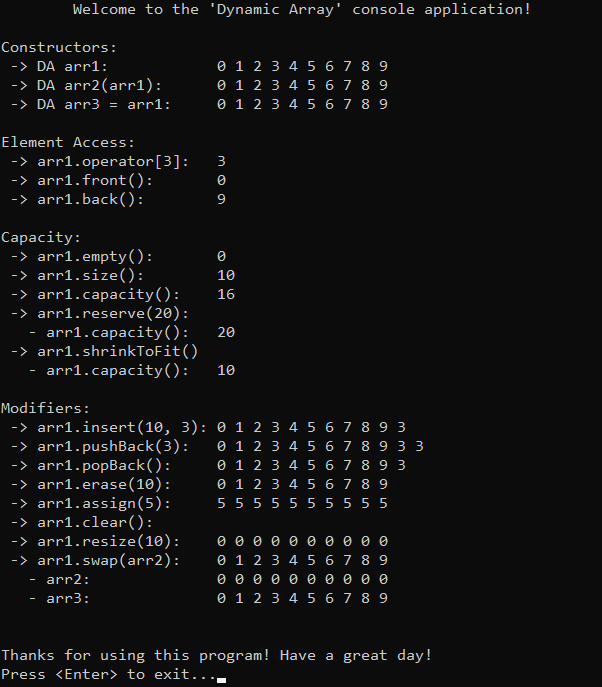
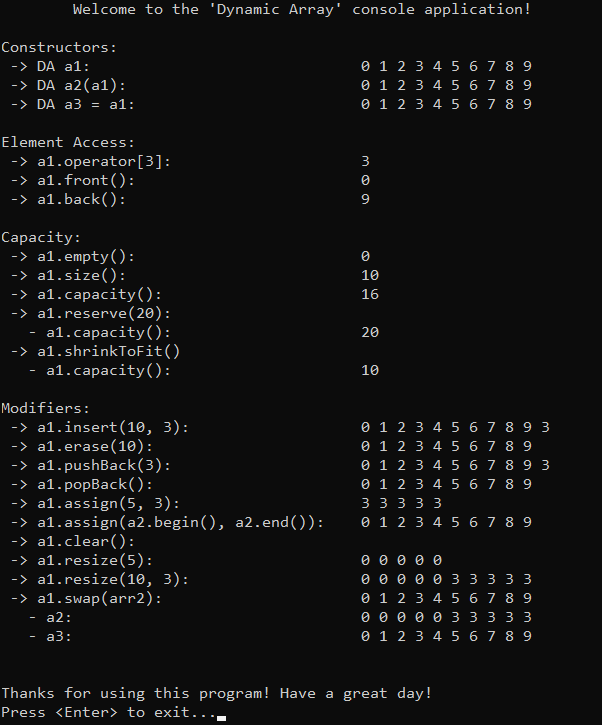
Upd 'Arrays': fix resize, fill, assign functions.

diff --git a/DataStructures/Array/DynamicArray/Source/Main.cpp b/DataStructures/Array/DynamicArray/Source/Main.cpp
@@ -21,68 +21,79 @@ int main() {
 
 	// Constructors
 	std::cout << "Constructors:\n";
-	std::cout << " -> DA arr1:\t\t";
-	DA arr1;
-	for (int i = 0; i < 10; ++i) { arr1.pushBack(i); } // 5 allocations
-	printArray(arr1);
-	std::cout << " -> DA arr2(arr1):\t";
-	DA arr2(arr1);
-	printArray(arr2);
-	std::cout << " -> DA arr3 = arr1:\t";
-	DA arr3 = arr1;
-	printArray(arr3);
+	std::cout << " -> DA a1:\t\t\t\t";
+	DA a1;
+	for (int i = 0; i < 10; ++i) { a1.pushBack(i); } // 5 allocations
+	printArray(a1);
+	std::cout << " -> DA a2(a1):\t\t\t\t";
+	DA a2(a1);
+	printArray(a2);
+	std::cout << " -> DA a3 = a1:\t\t\t\t";
+	DA a3 = a1;
+	printArray(a3);
 	std::cout << std::endl;
+
+	// Helper Iterators
+	DA::iterator it = a1.begin();
+	DA::iterator last = it;
+	for (; it != a1.end(); ++it) { last = it; }
 
 	// Element Access
 	std::cout << "Element Access:\n";
-	std::cout << " -> arr1.operator[3]:\t" << arr1[3] << std::endl;
-	std::cout << " -> arr1.front():\t" << arr1.front() << std::endl;
-	std::cout << " -> arr1.back(): \t" << arr1.back() << std::endl;
+	std::cout << " -> a1.operator[3]:\t\t\t" << a1[3] << std::endl;
+	std::cout << " -> a1.front():\t\t\t\t" << a1.front() << std::endl;
+	std::cout << " -> a1.back(): \t\t\t\t" << a1.back() << std::endl;
 	std::cout << std::endl;
 
 	// Capacity
 	std::cout << "Capacity:\n";
-	std::cout << " -> arr1.empty():\t" << arr1.empty() << std::endl;
-	std::cout << " -> arr1.size(): \t" << arr1.size() << std::endl;
-	std::cout << " -> arr1.capacity(): \t" << arr1.capacity() << std::endl;
-	std::cout << " -> arr1.reserve(20): \t" << std::endl;
-	arr1.reserve(20);
-	std::cout << "   - arr1.capacity(): \t" << arr1.capacity() << std::endl;
-	std::cout << " -> arr1.shrinkToFit() \t" << std::endl;
-	arr1.shrinkToFit();
-	std::cout << "   - arr1.capacity(): \t" << arr1.capacity() << std::endl;
+	std::cout << " -> a1.empty():\t\t\t\t" << a1.empty() << std::endl;
+	std::cout << " -> a1.size(): \t\t\t\t" << a1.size() << std::endl;
+	std::cout << " -> a1.capacity(): \t\t\t" << a1.capacity() << std::endl;
+	std::cout << " -> a1.reserve(20): \t\t\t\t" << std::endl;
+	a1.reserve(20);
+	std::cout << "   - a1.capacity(): \t\t\t" << a1.capacity() << std::endl;
+	std::cout << " -> a1.shrinkToFit() \t\t\t\t" << std::endl;
+	a1.shrinkToFit();
+	std::cout << "   - a1.capacity(): \t\t\t" << a1.capacity() << std::endl;
 	std::cout << std::endl;
 
 	// Modifiers
 	std::cout << "Modifiers:\n";
-	std::cout << " -> arr1.insert(10, 3): ";
-	arr1.insert(10, 3);
-	printArray(arr1);
-	std::cout << " -> arr1.pushBack(3): \t";
-	arr1.pushBack(3);
-	printArray(arr1);
-	std::cout << " -> arr1.popBack(): \t";
-	arr1.popBack();
-	printArray(arr1);
-	std::cout << " -> arr1.erase(10): \t";
-	arr1.erase(10);
-	printArray(arr1);
-	std::cout << " -> arr1.assign(5): \t";
-	arr1.assign(5);
-	printArray(arr1);
-	std::cout << " -> arr1.clear(): \t";
-	arr1.clear();
-	printArray(arr1);
-	std::cout << " -> arr1.resize(10): \t";
-	arr1.resize(10);
-	printArray(arr1);
-	std::cout << " -> arr1.swap(arr2): \t";
-	arr1.swap(arr2);
-	printArray(arr1);
-	std::cout << "   - arr2:\t\t";
-	printArray(arr2);
-	std::cout << "   - arr3:\t\t";
-	printArray(arr3);
+	std::cout << " -> a1.insert(10, 3): \t\t\t";
+	a1.insert(10, 3);
+	printArray(a1);
+	std::cout << " -> a1.erase(10): \t\t\t";
+	a1.erase(10);
+	printArray(a1);
+	std::cout << " -> a1.pushBack(3): \t\t\t";
+	a1.pushBack(3);
+	printArray(a1);
+	std::cout << " -> a1.popBack(): \t\t\t";
+	a1.popBack();
+	printArray(a1);
+	std::cout << " -> a1.assign(5, 3): \t\t\t";
+	a1.assign(5, 3);
+	printArray(a1);
+	std::cout << " -> a1.assign(a2.begin(), a2.end()):    ";
+	a1.assign(a2.begin(), a2.end());
+	printArray(a1);
+	std::cout << " -> a1.clear(): \t\t\t";
+	a1.clear();
+	printArray(a1);
+	std::cout << " -> a1.resize(5): \t\t\t";
+	a1.resize(5);
+	printArray(a1);
+	std::cout << " -> a1.resize(10, 3): \t\t\t";
+	a1.resize(10, 3);
+	printArray(a1);
+	std::cout << " -> a1.swap(arr2): \t\t\t";
+	a1.swap(a2);
+	printArray(a1);
+	std::cout << "   - a2:\t\t\t\t";
+	printArray(a2);
+	std::cout << "   - a3:\t\t\t\t";
+	printArray(a3);
 	std::cout << std::endl;
 
 	// Exit

diff --git a/DataStructures/Array/StaticArray/Source/Main.cpp b/DataStructures/Array/StaticArray/Source/Main.cpp
@@ -21,43 +21,51 @@ int main() {
 
 	// Constructors
 	std::cout << "Constructors:\n";
-	std::cout << " -> SA arr1:\t\t";
-	SA arr1;
-	for (int i = 0; i < 10; ++i) { arr1[i] = i; }
-	printArray(arr1);
-	std::cout << " -> SA arr2(arr1):\t";
-	SA arr2(arr1);
-	printArray(arr2);
-	std::cout << " -> SA arr3 = arr1:\t";
-	SA arr3 = arr1;																																																																																																									
-	printArray(arr3);
+	std::cout << " -> SA a1:\t\t\t\t";
+	SA a1;
+	for (int i = 0; i < 10; ++i) { a1[i] = i; }
+	printArray(a1);
+	std::cout << " -> SA a2(a1):\t\t\t\t";
+	SA a2(a1);
+	printArray(a2);
+	std::cout << " -> SA a3 = a1:\t\t\t\t";
+	SA a3 = a1;																																																																																																									
+	printArray(a3);
 	std::cout << std::endl;
+
+	// Helper Iterators
+	SA::iterator it = a1.begin();
+	SA::iterator last = it;
+	for (; it != a1.end(); ++it) { last = it; }
 
 	// Element Access
 	std::cout << "Element Access:\n";
-	std::cout << " -> arr1.operator[3]:\t" << arr1[3] << std::endl;
-	std::cout << " -> arr1.front():\t" << arr1.front() << std::endl;
-	std::cout << " -> arr1.back(): \t" << arr1.back() << std::endl;
+	std::cout << " -> a1.operator[3]:\t\t\t" << a1[3] << std::endl;
+	std::cout << " -> a1.front():\t\t\t\t" << a1.front() << std::endl;
+	std::cout << " -> a1.back(): \t\t\t\t" << a1.back() << std::endl;
 	std::cout << std::endl;
 
 	// Capacity
 	std::cout << "Capacity:\n";
-	std::cout << " -> arr1.empty():\t" << arr1.empty() << std::endl;
-	std::cout << " -> arr1.size(): \t" << arr1.size() << std::endl;
+	std::cout << " -> a1.empty():\t\t\t\t" << a1.empty() << std::endl;
+	std::cout << " -> a1.size(): \t\t\t\t" << a1.size() << std::endl;
 	std::cout << std::endl;
 
 	// Modifiers
 	std::cout << "Modifiers:\n";
-	std::cout << " -> arr1.assign(5):\t";
-	arr1.assign(5);
-	printArray(arr1);
-	std::cout << " -> arr1.swap(arr2):\t";
-	arr1.swap(arr2);
-	printArray(arr1);
-	std::cout << "   - arr2:\t\t";
-	printArray(arr2);
-	std::cout << "   - arr3:\t\t";
-	printArray(arr3);
+	std::cout << " -> a3.fill(3):\t\t\t\t";
+	a3.fill(3);
+	printArray(a3);
+	std::cout << " -> a2.fill(a3.begin(), a3.end()):\t";
+	a2.fill(a3.begin(), a3.end());
+	printArray(a2);
+	std::cout << " -> a1.swap(a2):\t\t\t";
+	a1.swap(a2);
+	printArray(a1);
+	std::cout << "   - a2:\t\t\t\t";
+	printArray(a2);
+	std::cout << "   - a3:\t\t\t\t";
+	printArray(a3);
 	std::cout << std::endl;
 
 	// Exit

diff --git a/DataStructures/Array/DynamicArray/Source/DynamicArray.cpp b/DataStructures/Array/DynamicArray/Source/DynamicArray.cpp
@@ -235,8 +235,32 @@ void DA::erase(int pos) {
 }
 
 // Assigns the specified value to all elements
-void DA::assign(int val) {
-    for (int i = 0; i < _size; ++i) { _data[i] = val; }
+void DA::assign(int size, const int& val) {
+    // Ensure sufficient capacity for the requested size
+    if (size > _capacity) { reserve(size); }
+
+    // Fill all elements with the specified value
+    for (int i = 0; i < size; ++i) { _data[i] = val; }
+
+    // Match the requested size
+    _size = size;
+}
+
+// Assigns elements from the range [first, last) to the array
+void DA::assign(Iterator first, Iterator last) {
+    // Calculate the number of elements in the range
+    int newSize = 0;
+    for (auto it = first; it != last; ++it) { ++newSize; }
+
+    // Ensure sufficient capacity for the range
+    if (newSize > _capacity) { reserve(newSize); }
+
+    // Copy elements from the range into the array
+    int index = 0;
+    for (auto it = first; it != last; ++it) { _data[index++] = *it; }
+
+    // Match the size to the number of elements in the range
+    _size = newSize;
 }
 
 // Erases all elements from the array, keeps the capacity unchanged
@@ -249,7 +273,7 @@ void DA::clear() {
 }
 
 // Resizes the array to contain 'size' elements
-void DA::resize(int size) {
+void DA::resize(int size, const int& val) {
     // Case 1: new size is the same as current one
     if (size == _size) { return; }
 
@@ -268,8 +292,8 @@ void DA::resize(int size) {
         // Copy existing elements
         for (int i = 0; i < _size; ++i) { data[i] = _data[i]; }
 
-        // Default initialize new elements to 0
-        for (int i = _size; i < size; ++i) { data[i] = 0; }
+        // Initialize new elements
+        for (int i = _size; i < size; ++i) { data[i] = val; }
 
         // Deallocate old memory and point to new one
         delete[] _data;
@@ -277,10 +301,10 @@ void DA::resize(int size) {
 
         // Update size to the new size
         _size = size;
-    }
-    else {
+
+    } else {
         // Capacity is sufficient, just default initialize new elements
-        for (int i = _size; i < size; ++i) { _data[i] = 0; }
+        for (int i = _size; i < size; ++i) { _data[i] = val; }
 
         // Update size to the new size
         _size = size;

diff --git a/DataStructures/Array/StaticArray/Source/StaticArray.cpp b/DataStructures/Array/StaticArray/Source/StaticArray.cpp
@@ -85,9 +85,15 @@ int  SA::size() const { return _SIZE; }
 //  Operations
 // ------------
 
-// Replaces the contents with 'data'
-void SA::assign(int val) {
+// Replaces the contents with 'val'
+void SA::fill(int val) {
     for (int i = 0; i < _SIZE; ++i) { _data[i] = val; }
+}
+
+// Fills the array with elements from the range [first, last)
+void SA::fill(Iterator first, Iterator last) {
+    int index = 0;
+    for (auto it = first; it != last && index < _SIZE; ++it) { _data[index++] = *it; }
 }
 
 // Exchanges the contents of the array with those of 'other'

diff --git a/DataStructures/Array/DynamicArray/Include/DynamicArray.h b/DataStructures/Array/DynamicArray/Include/DynamicArray.h
@@ -62,12 +62,13 @@ public:
 	//  Modifiers
 	// -----------
 	void insert(int pos, const int& data);
+	void erase(int pos);
 	void pushBack(const int& data);
 	void popBack();
-	void erase(int pos);
-	void assign(int val);
+	void assign(int size, const int& val);
+	void assign(Iterator first, Iterator last);
 	void clear();
-	void resize(int size);
+	void resize(int size, const int& val = 0);
 	void swap(DA& other);
 };
 

diff --git a/DataStructures/Array/StaticArray/Include/StaticArray.h b/DataStructures/Array/StaticArray/Include/StaticArray.h
@@ -55,7 +55,8 @@ public:
 	// -----------
 	//  Modifiers
 	// -----------
-	void assign(int val);
+	void fill(int val);
+	void fill(iterator first, iterator last);
 	void swap(SA& other);
 };
 

diff --git a/DataStructures/Array/StaticArray/StaticArray.md b/DataStructures/Array/StaticArray/StaticArray.md
@@ -149,7 +149,8 @@ public:
 	// -----------
 	//  Modifiers
 	// -----------
-	void assign(int val);
+	void fill(int val);
+	void fill(iterator first, iterator last);
 	void swap(SA& other);
 };
 ```
@@ -225,7 +226,7 @@ public:
 ```
 
 ---
-The `ConstIterator` class is defined as a public nested class within the `DLL` container. This design makes `ConstIterator` accessible to users, enabling them to traverse and interact with list elements directly. Given the simplicity of the `ConstIterator` class, its functions are defined inline within the container's header file.
+The `ConstIterator` class is defined as a public nested class within the `SA` container. This design makes `ConstIterator` accessible to users, enabling them to traverse and interact with list elements directly. Given the simplicity of the `ConstIterator` class, its functions are defined inline within the container's header file.
 
 ```cpp
 class SA::ConstIterator {

diff --git a/DataStructures/Array/DynamicArray/DynamicArray.md b/DataStructures/Array/DynamicArray/DynamicArray.md
@@ -164,12 +164,13 @@ public:
 	//  Modifiers
 	// -----------
 	void insert(int pos, const int& data);
+	void erase(int pos);
 	void pushBack(const int& data);
 	void popBack();
-	void erase(int pos);
-	void assign(int val);
+	void assign(int size, const int& val);
+	void assign(Iterator first, Iterator last);
 	void clear();
-	void resize(int size);
+	void resize(int size, const int& val = 0);
 	void swap(DA& other);
 };
 ```
